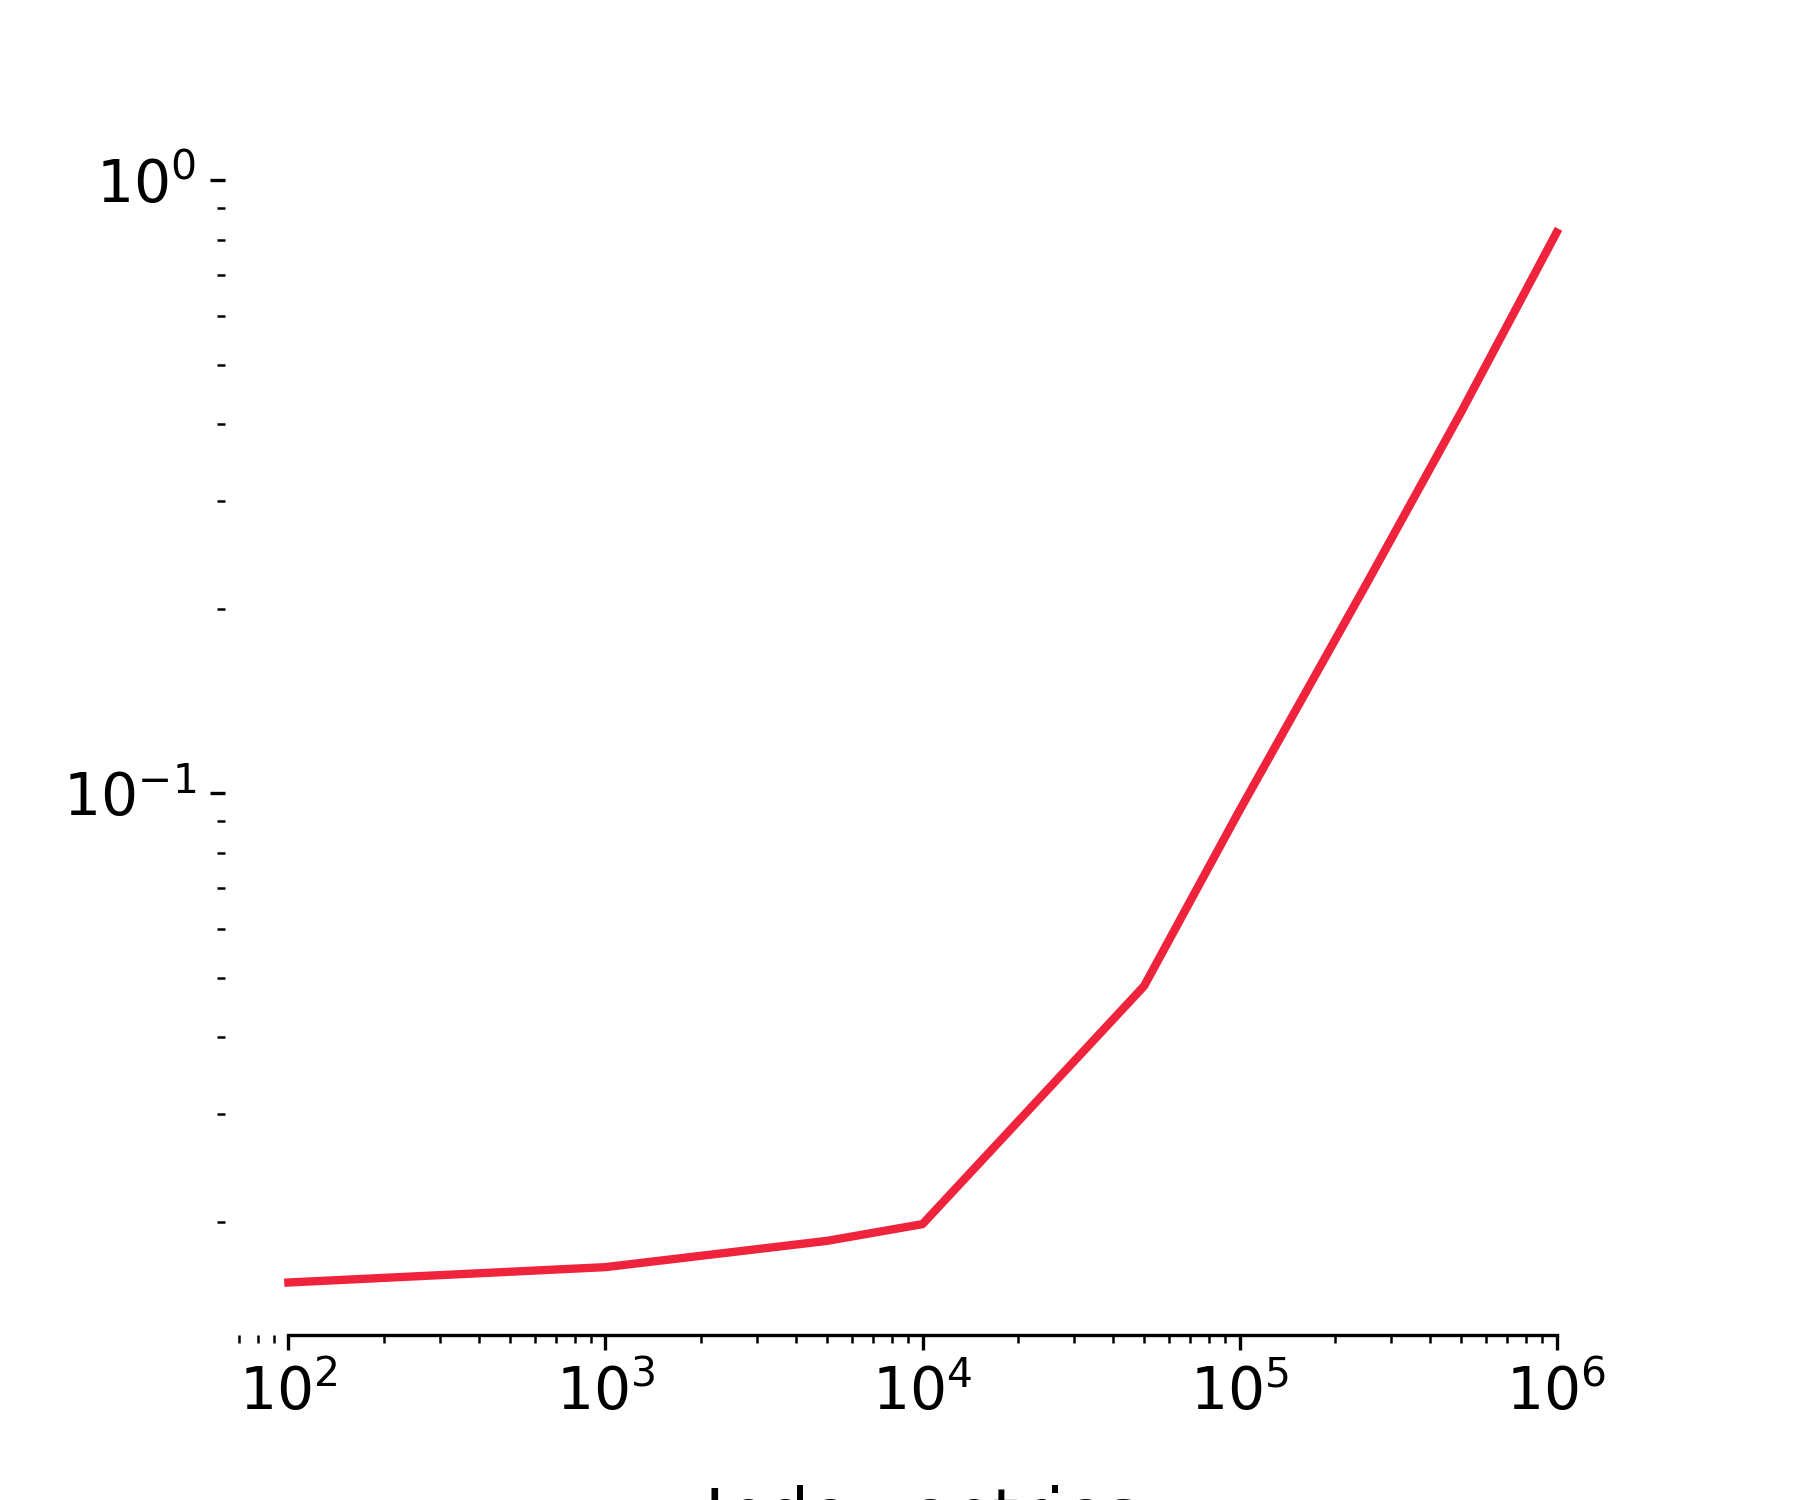
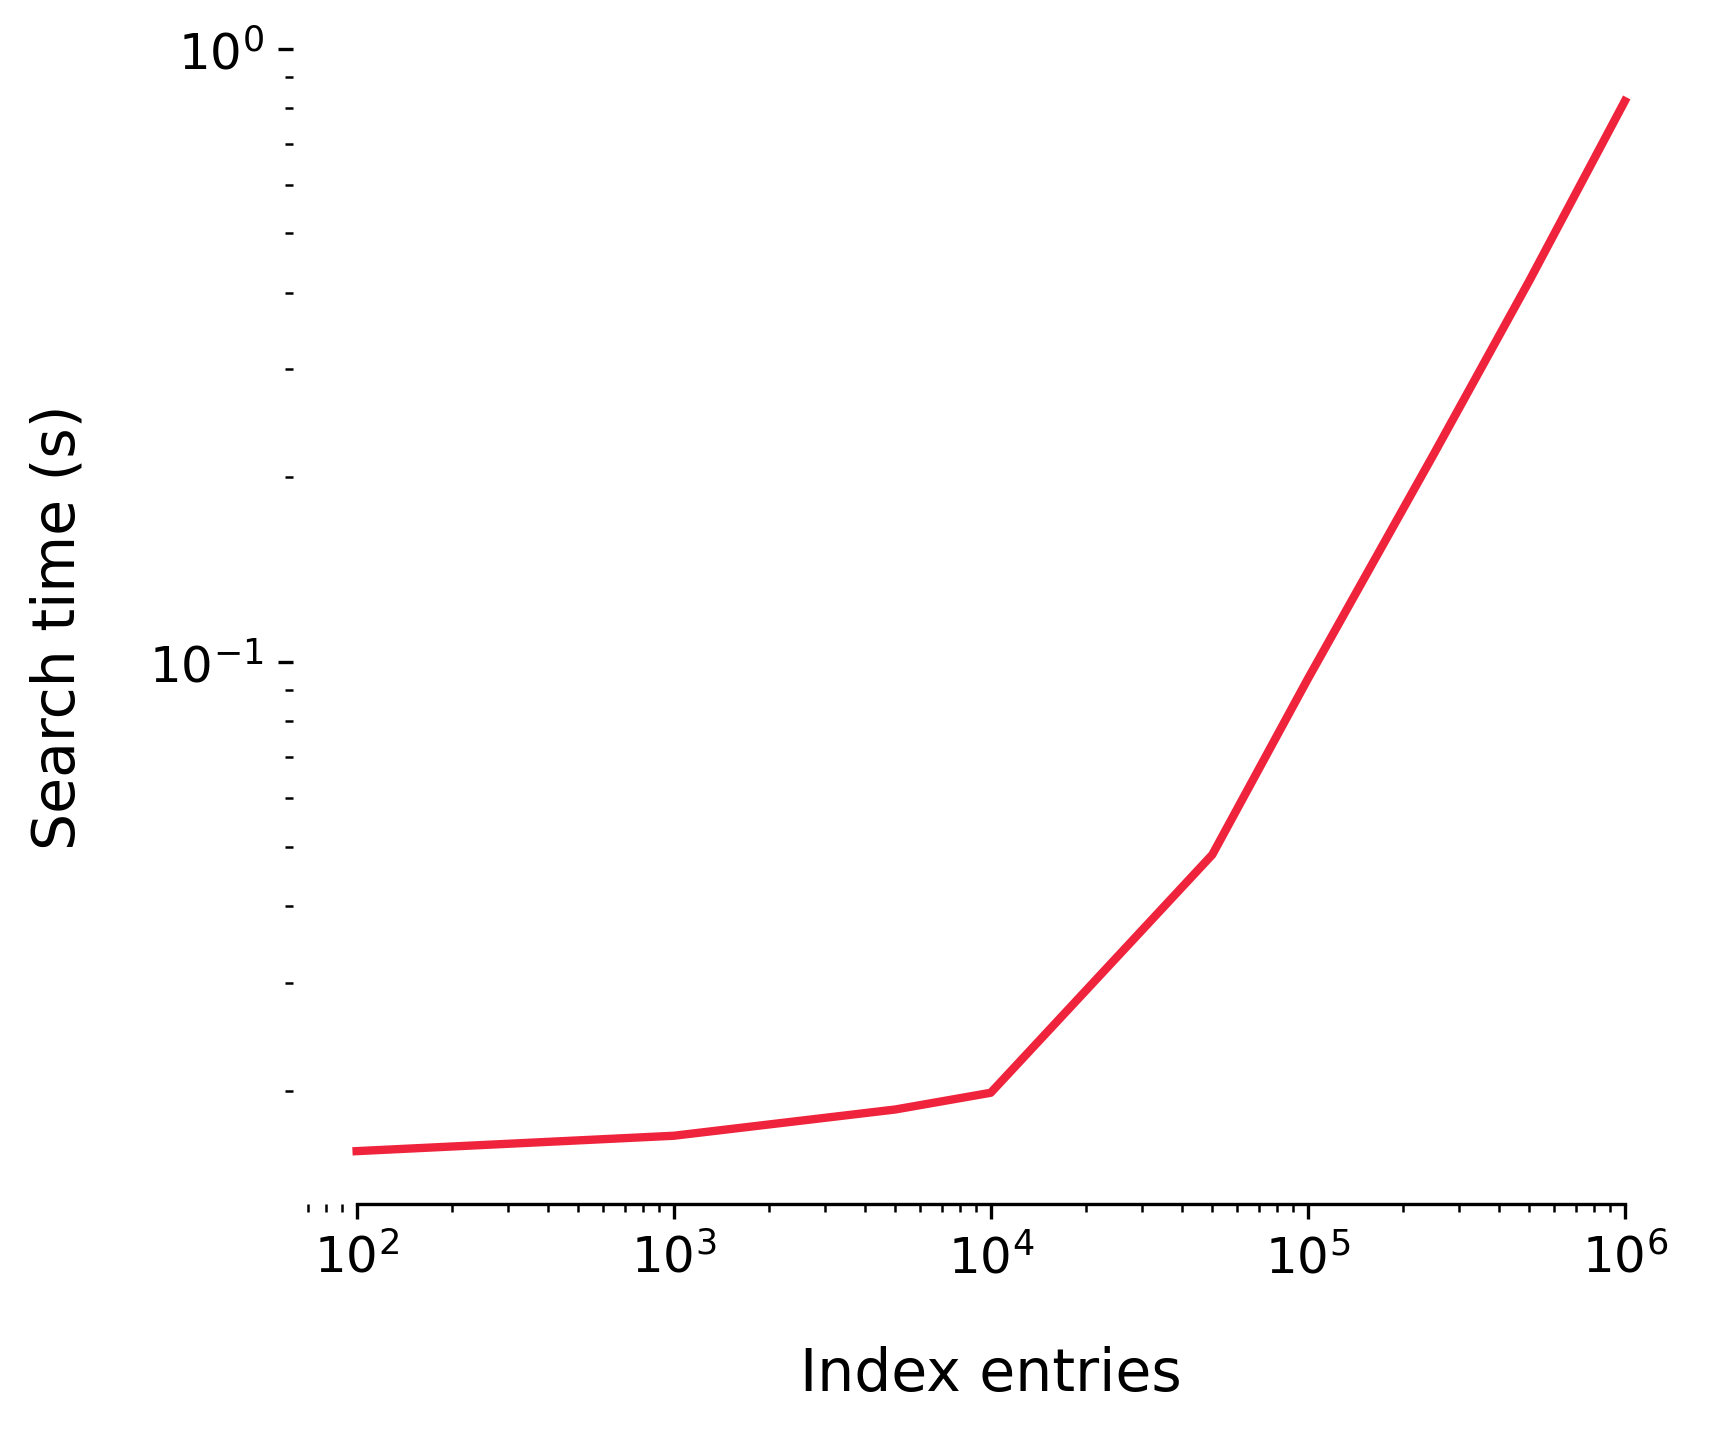
update readme

diff --git a/README.md b/README.md
@@ -1,9 +1,16 @@
 # vector-store
-a minimal vector storage in numpy.
+a minimal vector storage in numpy. 
 
 build your index of documents and query it using cosine, euclidean or manhattan similarity. 
 
 ```
 python3 test.py
 ```
+
+so, does it scale? no. 
+
+![](/data/img.png)
+
+but if your application doesn't need more than a couple hundred thousand entries, why make things more
+complicated than they needs to be? 
 
